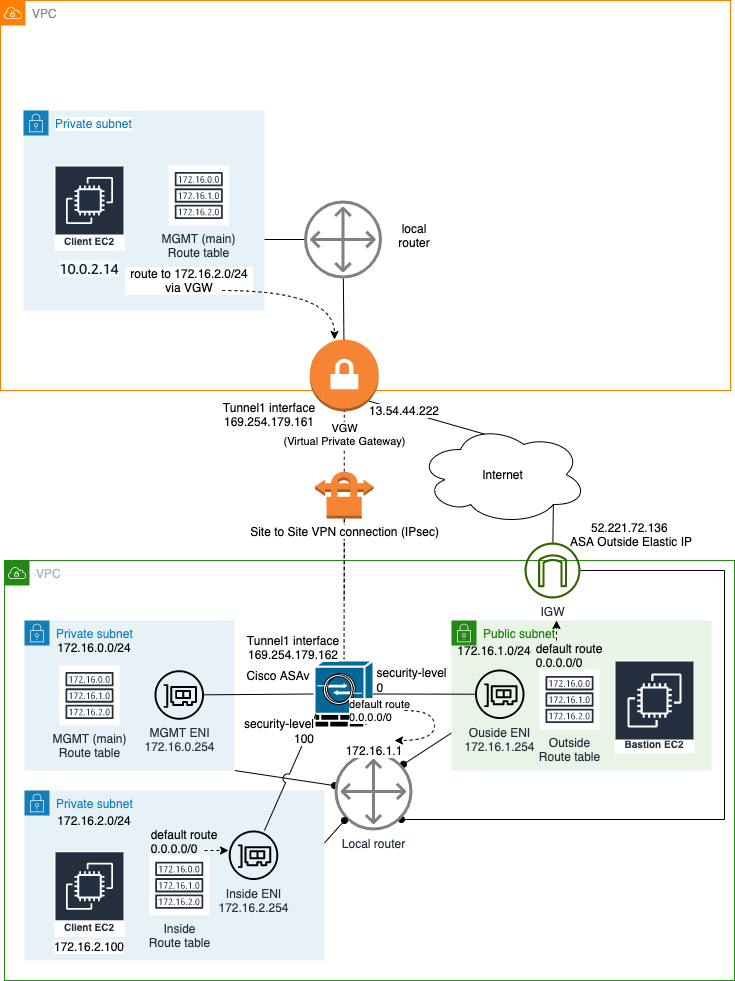
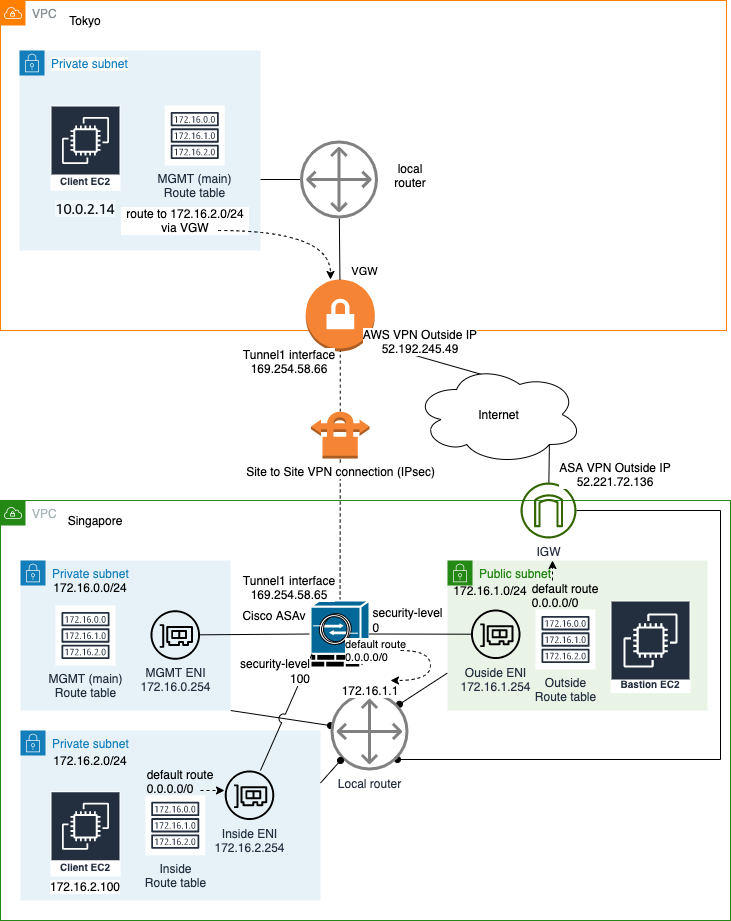
removed pre-shared key

Changed region(s): [[0.0, 0.0, 1.0, 1.0], [0.9932, 0.3648, 1.0, 0.3952], [0.0, 0.0, 0.0301, 0.0304]]

diff --git a/docs/asa-site-to-site.rst b/docs/asa-site-to-site.rst
@@ -7,6 +7,17 @@ In this chapter, we will configure a IPsec tunnel between ASAv and AWS Managed V
    :width: 600px
    :alt: Site to Site VPN - IPsec
 
+First of all, let's prepare the AWS Managed VPN:
+
+#. Create a VGW (Virtual Private Gateway).
+#. Attach the newly created VGW to a VPC.
+#. Create a VPN connection and attach it to the newly created VGW.
+#. Enable the route propagation from VGW to the subnet route table.
+
+Create a VGW (Virtual Private Gateway):
+
+Now, we are ready to configure our ASAv to connect the AWS managed VPN.
+
 ASAv configuration:
 
 .. code-block:: console
@@ -61,7 +72,7 @@ ASAv configuration:
     ! tunnel endpoints.
     tunnel-group 13.54.44.222 type ipsec-l2l
     tunnel-group 13.54.44.222 ipsec-attributes
-    ikev1 pre-shared-key zy6vsjotOz9JD_I.OvFq7Jc1tplv8O_f
+    ikev1 pre-shared-key <your-pre-shared-key>
 
     ! This option enables IPSec Dead Peer Detection, which causes semi-periodic
     ! messages to be sent to ensure a Security Association remains operational.
@@ -103,6 +114,36 @@ ASAv configuration:
         no synchronization
     exit-address-family
     exit
+
+Route table on ASAv:
+
+.. code-block:: console
+
+ciscoasa# show route
+
+Codes: L - local, C - connected, S - static, R - RIP, M - mobile, B - BGP
+       D - EIGRP, EX - EIGRP external, O - OSPF, IA - OSPF inter area
+       N1 - OSPF NSSA external type 1, N2 - OSPF NSSA external type 2
+       E1 - OSPF external type 1, E2 - OSPF external type 2, V - VPN
+       i - IS-IS, su - IS-IS summary, L1 - IS-IS level-1, L2 - IS-IS level-2
+       ia - IS-IS inter area, * - candidate default, U - per-user static route
+       o - ODR, P - periodic downloaded static route, + - replicated route
+       SI - Static InterVRF
+Gateway of last resort is 172.16.1.1 to network 0.0.0.0
+
+S*       0.0.0.0 0.0.0.0 [1/0] via 172.16.1.1, outside
+B        10.0.0.0 255.255.0.0 [20/100] via 169.254.179.161, 00:21:10
+C        169.254.179.160 255.255.255.252
+           is directly connected, Tunnel-int-vpn-04a0ce01a40f54075-0
+L        169.254.179.162 255.255.255.255
+           is directly connected, Tunnel-int-vpn-04a0ce01a40f54075-0
+C        172.16.1.0 255.255.255.0 is directly connected, outside
+L        172.16.1.254 255.255.255.255 is directly connected, outside
+C        172.16.2.0 255.255.255.0 is directly connected, inside
+L        172.16.2.254 255.255.255.255 is directly connected, inside
+C        172.16.3.0 255.255.255.0 is directly connected, dmz
+L        172.16.3.254 255.255.255.255 is directly connected, dmz
+
 
 Ping from Ubuntu client:
 
